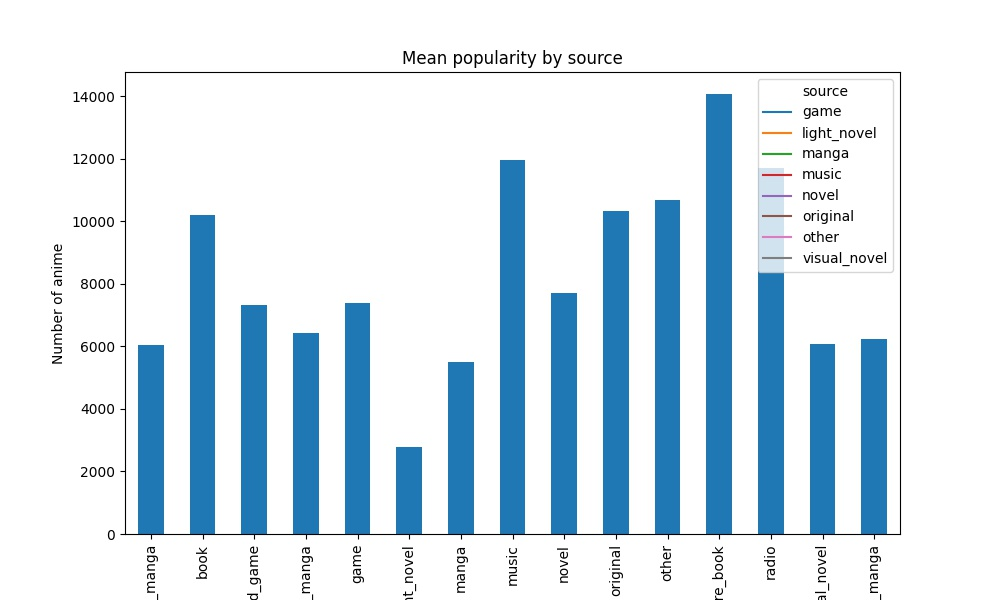
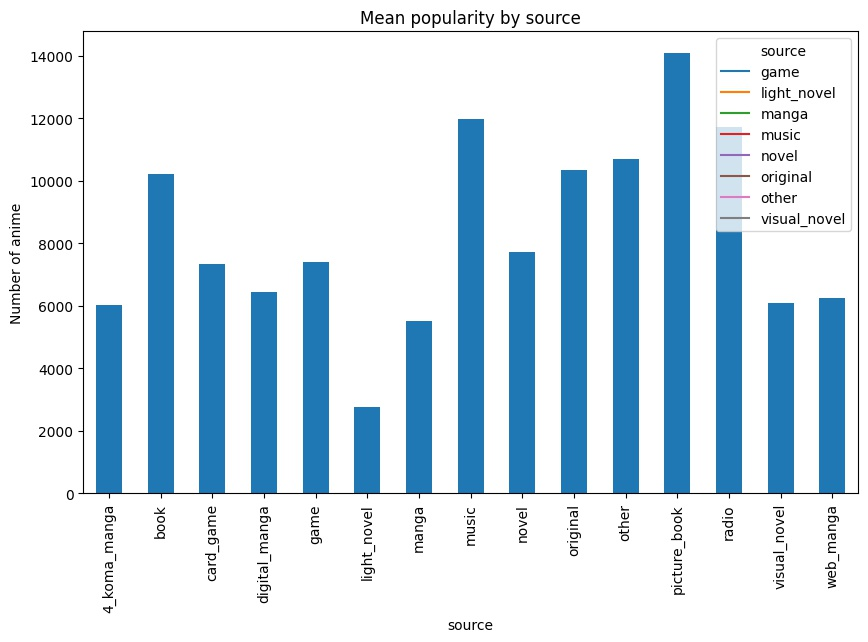
Edited plots

diff --git a/rank_vs_popularity.py b/rank_vs_popularity.py
@@ -41,14 +41,14 @@ df = df.sort_values(by=['rank'])
 # df2[df2['rank'] < 100].plot()
 df2 = df.copy()
 fig = df2[df2['rank'] < 100].plot(x='rank', y='popularity', xlabel='Rank', ylabel='Popularity', figsize=(8,6)).get_figure()
-fig.savefig("outputs/rank_vs_popularity_first100.jpg")
+fig.savefig("outputs/rank_vs_popularity_first100.jpg", bbox_inches='tight')
 
 
 # %%
 interval = 200
 df_grouped = df2.groupby(pd.cut(df2["rank"], np.arange(1, 17314+interval, interval))).mean()
 fig = df_grouped.plot(y='popularity', x='rank', xlabel='Rank', ylabel='Popularity', figsize=(8,6)).get_figure()
-fig.savefig("outputs/rank_vs_popularity.jpg")
+fig.savefig("outputs/rank_vs_popularity.jpg", bbox_inches='tight')
 
 # %%
 df1 = df.copy()

diff --git a/source_trends.py b/source_trends.py
@@ -7,7 +7,7 @@ import matplotlib as plt
 # %%
 def savePlot(plot, name):
     fig = plot.get_figure()
-    fig.savefig("outputs/" + name + '.jpeg')
+    fig.savefig("outputs/" + name + '.jpeg', bbox_inches='tight')
 
 
 # %%
